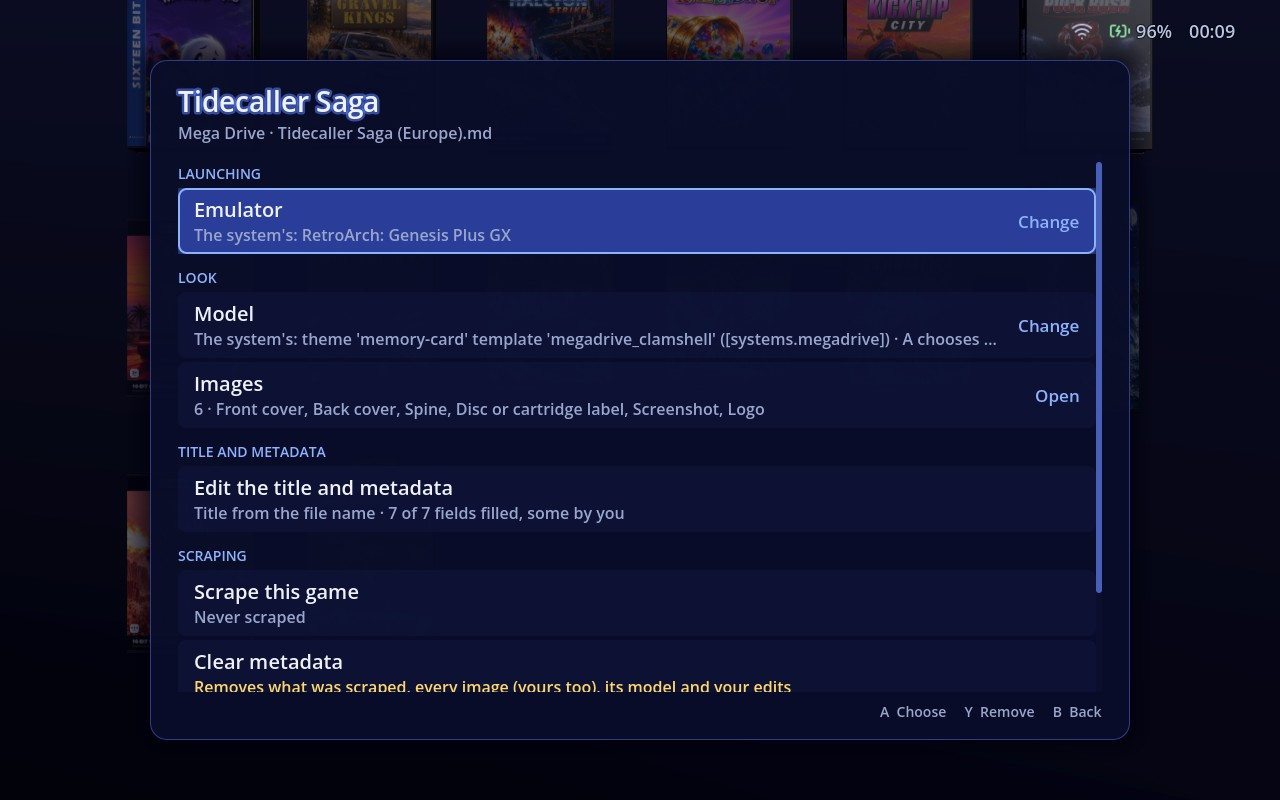
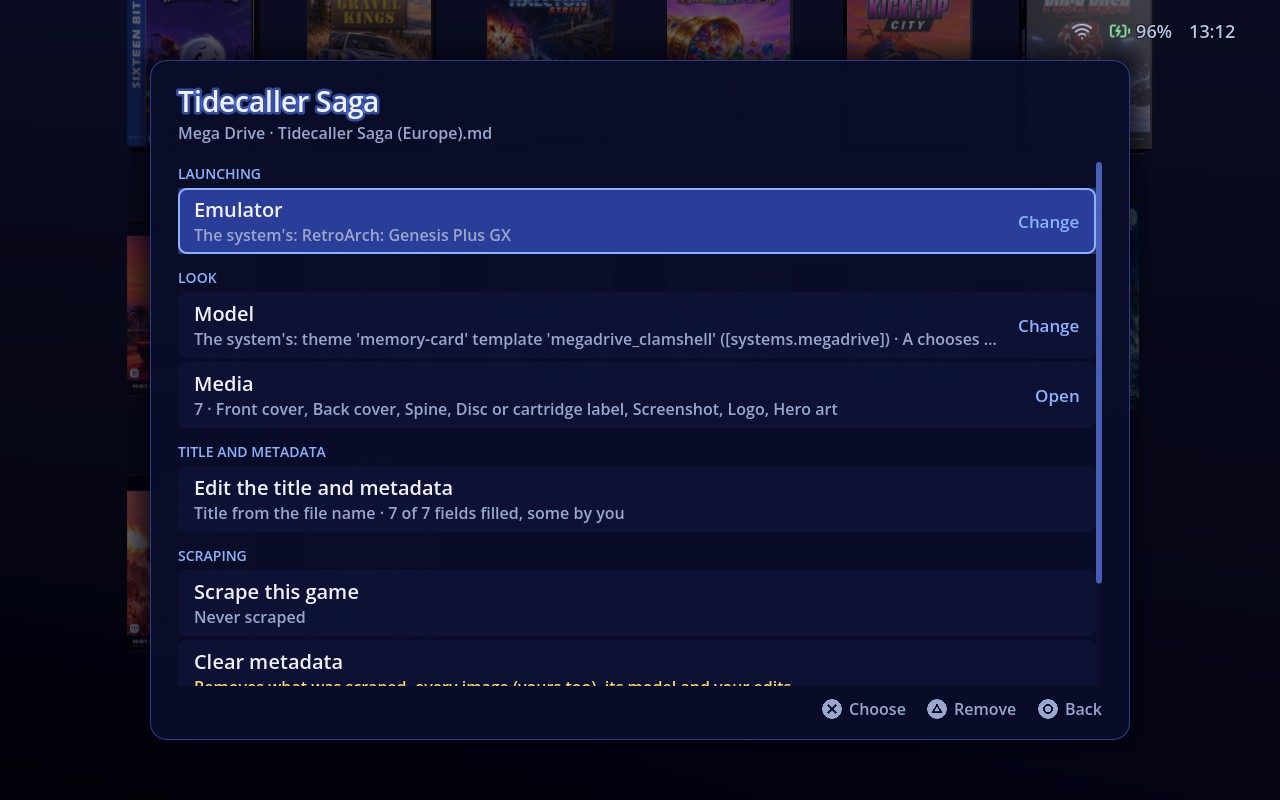
Updated README for v1.0

diff --git a/tools/made-up-games/make_games.py b/tools/made-up-games/make_games.py
@@ -1,6 +1,6 @@
 """Makes the made-up games' media for the README's captures (docs/readme/): for every release of every game in
-games.toml, its cover, back, spine, cartridge or disc label, logo and screenshot (an arcade game's logo and screenshot
-only),
+games.toml, its cover, back, spine, cartridge or disc label, logo, screenshot and hero (an arcade game's logo and
+screenshot only),
 composed from its Codex paintings (codex_art.py) with logos, packaging and HUDs drawn here, the same on every run.
 Writes a portable user folder to capture from, and review sheets:
 
@@ -34,9 +34,10 @@ from codex_art import look_of
 
 HERE = Path(__file__).resolve().parent
 REPO = HERE.parents[1]
-EXTENSIONS = {"cover": ".jpg", "back": ".jpg", "spine": ".jpg", "label": ".jpg", "logo": ".png", "screenshot": ".png"}
+EXTENSIONS = {"cover": ".jpg", "back": ".jpg", "spine": ".jpg", "label": ".jpg", "logo": ".png", "screenshot": ".png",
+              "hero": ".jpg"}
 FOLDERS = {"cover": "covers", "back": "backcovers", "spine": "spines", "label": "labels", "logo": "logos",
-           "screenshot": "screenshots"}
+           "screenshot": "screenshots", "hero": "heroes"}
 ROM_EXTENSIONS = {"megadrive": ".md", "snes": ".sfc", "n64": ".z64", "arcade": ".zip", "ps2": ".chd"}
 SYSTEMS = ["megadrive", "snes", "n64", "arcade", "ps2"]
 
@@ -79,6 +80,8 @@ def make(release, paintings, media):
         pieces["spine"] = P.to_image(B.spine(release, art, logo))
         # A PS2 disc's label is round: a PNG with its corners and its hole transparent.
         pieces["label"] = P.layer_image(B.disc(release, art, logo)) if system == "ps2" else P.to_image(B.label(release, art, logo))
+        # 16:9, as ScreenScraper's fan art and LaunchBox's backgrounds are: the Showcase layout fills the screen with it.
+        pieces["hero"] = P.to_image(B.crop(art, 1920, 1080, release.get("crop", {}).get("hero", (0.5, 0.5))))
     for kind, image in pieces.items():
         extension = ".png" if image.mode == "RGBA" else EXTENSIONS[kind]
         save(image, media / system / FOLDERS[kind] / (stem + extension))
@@ -169,7 +172,7 @@ def contact_sheet(paths, height, width=2400, captions=True):
 
 
 def sheets(media, out):
-    heights = {"cover": 300, "back": 300, "spine": 300, "label": 160, "logo": 110, "screenshot": 224}
+    heights = {"cover": 300, "back": 300, "spine": 300, "label": 160, "logo": 110, "screenshot": 224, "hero": 200}
     for system in SYSTEMS:
         for kind, folder in FOLDERS.items():
             paths = sorted((media / system / folder).glob("*")) if (media / system / folder).exists() else []

diff --git a/tools/made-up-games/readme_captures.py b/tools/made-up-games/readme_captures.py
@@ -97,6 +97,7 @@ class Capture:
     animation: bool = False
     start: int = 0
     lead: int = 0
+    buttons: str = "xbox"
 
     def output(self):
         return OUT / (self.name + (".webp" if self.animation else ".jpg"))
@@ -125,9 +126,15 @@ CAPTURES = [
             args=["--start-system=snes", "--start-index=7", "--layout=grid/carousel"]),
     Capture("layout-list", "console", ["wait", "wait"], after=30,
             args=["--start-system=megadrive", "--start-index=6", "--layout=grid/list"]),
+    Capture("layout-coverflow", "console", ["wait", "wait"], after=30,
+            args=["--start-system=ps2", "--start-index=8", "--layout=grid/coverflow"], buttons="playstation"),
+    Capture("layout-showcase", "console", ["wait", "wait", "wait"], after=30,
+            args=["--start-system=ps2", "--start-index=5", "--layout=grid/showcase"], buttons="playstation"),
     Capture("game-details", "console", ["wait"], after=30,
             args=["--start-system=megadrive", "--start-index=17", "--open=details"]),
-    Capture("game-options", "console", ["wait", "x"], after=30, args=["--start-system=megadrive", "--start-index=17"]),
+    Capture("game-options", "console", ["wait", "x"], after=30, args=["--start-system=megadrive", "--start-index=17"],
+            buttons="playstation"),
+    Capture("settings", "console", ["wait"], after=30, args=["--open=settings"]),
     Capture("system-details", "console", [*TO_MEGADRIVE, "y"], after=60, expect="Mega Drive"),
 ]
 
@@ -235,6 +242,7 @@ def record(capture, folder):
         [godot(), "--path", REPO / "godot", "--resolution", f"{STILL[0]}x{STILL[1]}", "--fixed-fps", "60",
          "--write-movie", folder / "f.png", "--",
          f"--user-dir={USER_DIR}", f"--theme={capture.theme}", "--fake-status=96+/wifi3", f"--boot-frames={BOOT}",
+         f"--button-icons={capture.buttons}",
          "--nav-script=" + ",".join(capture.nav), *capture.args,
          f"--capture={folder / 'end.png'}", f"--capture-frame={frames}"],
         capture_output=True, text=True, encoding="utf-8", errors="replace")

diff --git a/README.md b/README.md
@@ -2,12 +2,11 @@
 
 **A fully 3D game launcher for your emulators and PC games, inspired by the PlayStation 2's memory card browser.**
 
-Every system and every game is a floating 3D model. Depending on the theme, systems appear as their own consoles, as slabs with their logos or as flat logo cards, and games come in their real boxes, cases and cabinets, wrapped in their own cover art. Pick a system, pick a game, and it launches in the emulator you've set up. When you quit the game you're back where you left off.
+Every system and every game is a 3D model: consoles, logo cards, and games in their real boxes, cases and cabinets, wrapped in their own art. Pick a system, pick a game, and it launches in your emulator. Quit the game and you're back where you left off.
 
 ![Browsing the systems, entering the Mega Drive and moving through its games](docs/readme/navigation.webp)
 
-
-Odyssey Launcher is built with Godot 4 and C# for Windows and Linux. **Performance is the headline feature:** it starts fast, aims to stay locked to your display's refresh rate while you scroll through thousands of games, and keeps its memory use low.
+Odyssey Launcher runs on Windows and Linux. **Performance is the headline feature:** it starts fast, stays smooth while you scroll through thousands of games, and keeps its memory use low.
 
 ## Contents
 
@@ -24,73 +23,66 @@ Odyssey Launcher is built with Godot 4 and C# for Windows and Linux. **Performan
 
 ### A 3D library
 
-- **Systems, then games, then play.** A 3D grid of your systems; enter one for a grid of its games, flying in and out of depth over a gradient or wallpaper.
-- **Real boxes for real games.** Mega Drive clamshells, SNES and N64 boxes, jewel cases, PS2, PSP, DVD and Switch cases, and arcade cabinets, each wrapped in its scraped front, back, spine and label. Other systems get a box shaped by their cover art.
-- **Your choice of model.** Give any game or system another of the theme's models: a flat cover or screenshot, a blue PS2 case, or a 1990s TV playing the game's video.
-- **Animated items.** The focused item lifts and sways, and most of the Console theme's machines load and play a made-up game when focused. A theme can calm the motion or stop it.
-- **Pick it up and turn it round.** R3 brings the focused game up large; turn it with the right stick to read the back or the spine.
-- **Several layouts:** a grid, a grid with names, a carousel, one at a time, a list beside the focused game's model, a coverflow of spines, or a showcase of the focused game's art and details above a strip of boxes, per system if you like.
-- **Favourites, Recently played and All games** have their own cards at the start of the systems grid.
+- **Systems, then games, then play**, flying in and out of depth over a gradient or wallpaper.
+- **Real boxes for real games:** Mega Drive clamshells, SNES and N64 boxes, jewel cases, PS2, PSP, DVD and Switch cases, and arcade cabinets, each wrapped in its front, back, spine and label.
+- **Animated items:** the focused item lifts and sways, and many of the Console theme's machines play a made-up game when focused.
+- **Pick it up and turn it round:** bring a game up close and turn it to read the back or the spine.
+- **Seven layouts:** a grid, a grid with names, a carousel, one at a time, a list, a **coverflow** of spines, and a **showcase** of the focused game's art and details above a strip of boxes. Set one for everything, or per system.
+- **Favourites, Recently played and All games** at the start of the systems grid.
 
 ![Inspecting a game and turning it with the right stick](docs/readme/inspect.webp)
 
-### Your collection, as it is
+### Your collection
 
-- **Multi-disc games** show as one (`.m3u`, `.cue`, `.gdi`), as do PS3, PS4 and PS5 game folders.
-- **Clean titles** from No-Intro and Redump names, with the region, revision and disc kept as details, sorted naturally.
-- **Sorting:** systems by name, maker or year; games by title, last played, time played, date added or release date, per system.
+- **Multi-disc games** and PS3, PS4 and PS5 game folders show as one game.
+- **Clean titles** from No-Intro and Redump names, sorted naturally.
+- **Sorting:** systems by name, maker or year; games by title, release date, last played, time played or date added.
 - **Play history:** play count, play time and last played.
-- **Import from RetroBat/Batocera:** a `gamelist.xml` brings in titles, metadata, favourites and media without overwriting yours.
-- **Network drives work well:** batched, parallel scans, and an unplugged drive never loses your favourites or history.
+- **Import from ES-DE, RetroBat and Batocera** gamelists, without overwriting your own edits.
+- **Network drives** work well, and an unplugged drive never loses your favourites or history.
 
 ### Scraping
 
-- **Five providers:** ScreenScraper, LaunchBox's Games DB, IGDB, SteamGridDB and the Steam store, in your order, each filling only the gaps.
-- **ScreenScraper works out of the box** in releases; add your account for higher limits. LaunchBox needs no account and looks games up offline after a one-off download (about 110 MB). IGDB and SteamGridDB need free keys.
-- **Every kind of media:** covers, backs, spines, screenshots, logos, fan art, labels, videos and PDF manuals. You choose which.
-- **Accurate matching** by name, size and checksum. When a match is wrong, "scrape this game" searches every provider and lets you choose, SteamGridDB's alternative art included.
-- **Runs in the background** in a queue that survives restarts and respects each provider's limits.
-- **Your own art and edits win:** set any image, video, manual, title or field yourself, and no scrape overwrites it.
-- **Plain media folders** (`covers/`, `screenshots/`, `videos/`...) that you can move to any drive.
+- **Five providers:** ScreenScraper, LaunchBox's Games DB, IGDB, SteamGridDB and Steam, in the order you choose.
+- **Works out of the box** with ScreenScraper and LaunchBox; add your own accounts for more.
+- **Every kind of media:** covers, backs, spines, labels, screenshots, logos, fan art, videos and manuals.
+- **Choose the match yourself** when one is wrong, alternative art included.
+- **Your own art and edits always win.**
 
 ### Details and media
 
-- **Game details (Y):** description, release date, genre, developer, publisher, players, rating, region, play history and file.
-- **Images, videos and manuals** as cards: view an image full screen, play the video with sound, or read the manual page by page (Windows).
-- **System details:** the system's model, ready to turn, beside its history, emulators, folders and settings.
+- **Game details:** description, release date, genre, developer, players, rating and play history.
+- **Images, videos and manuals:** view images full screen, play videos with sound, read manuals page by page.
+- **System details:** the system's model, ready to turn, beside its history and settings.
 
 ### Launching
 
-- **Emulator profiles** for RetroArch cores, standalone emulators (PCSX2, Dolphin, PPSSPP, DuckStation and more), and games that are their own program, script or shortcut.
-- **Per-game overrides:** run one game with another emulator.
-- **Switch controllers** are set up in Eden before each launch, the pad that chose the game as player 1.
-- **Steam games** are followed until Steam says they've ended, so their play time counts too.
-- **Clean hand-off:** while a game runs the launcher stops drawing and frees its textures; when it ends, the launcher takes the foreground back.
+- **Emulator profiles** for RetroArch cores, standalone emulators, and games that are their own program or shortcut.
+- **Per-game emulators** when one game needs another.
+- **Steam games** count their play time too.
+- **Clean hand-off:** the launcher steps aside while you play and takes the foreground back when you quit.
 
-### Everything from the sofa
+### Made for the sofa
 
-- **Controller-driven settings** for folders, emulators, themes (and downloading more), layouts, graphics, scraping and updates, with an on-screen keyboard and file pickers.
-- **Game options (X):** emulator, model, media, metadata, scraping and deleting.
-- **System options (X):** folders, emulator, layout, models, scraping all its games and importing a `gamelist.xml`.
-- **Power menu (View):** restart, shut down, sleep or quit.
-- **Status indicators:** clock, battery and network, plus an optional FPS and video memory readout.
-- **Navigation sounds**, which you can turn off.
-- **Graphics options:** borderless, exclusive fullscreen or windowed; 3D resolution; Direct3D 12 or Vulkan; anisotropic filtering.
+- **Controller-driven everything:** settings, themes, scraping and updates, with an on-screen keyboard and file pickers.
+- **Button hints for your controller:** the controls along the bottom show Xbox, PlayStation, Switch, GameCube, Steam Deck or Steam Controller buttons, or your keyboard's keys, following whatever you pressed last. You can also fix one kind in the settings.
+- **UI size:** small for a desk, large for a handheld or a television across the room.
+- **Power menu:** restart, shut down, sleep or quit.
+- **Status indicators:** clock, battery and network.
 - The keyboard works everywhere, and the mouse in the menus.
 
 ### Built for speed
 
-- Aims to be interactive within a second of its own start-up, even with 10,000 games.
-- Aims to stay locked to the refresh rate while scrolling: the UI thread never touches the disk, network or database, and nothing allocates per frame.
-- Covers stream in on background threads within a per-frame upload budget.
-- Each kind of model is drawn in one batch.
+- Aims to be ready within a second, even with 10,000 games.
+- Aims to stay locked to your display's refresh rate while scrolling.
+- Covers stream in as you scroll, without stutter.
 - The baseline is a Steam Deck, handheld at 1280×800 or docked to 4K.
 
 ## Screenshots
 
 ### Themes
 
-The **Slab** theme (the default) shows each system as a dark slab with its logo. **Console** shows each system as its console, modelled in 3D: every built-in system has its own, from the Channel F to the PlayStation 5 and the PS Vita (with a PC of its time for DOS and each Windows, and a laptop for desktop apps), most of them loading a made-up game when you focus them; a system you add yourself gets a plain card. **Classic View** looks like a 2D launcher: flat logo cards and flat covers over a wallpaper, with nothing swaying. Switch themes from the settings, or for the session with <kbd>T</kbd> on the systems screen, without a restart. Get more from **Download themes** in the settings: themes checked before they're listed, then kept up to date from their own repositories.
+**Slab** (the default) shows each system as a dark slab with its logo. **Console** shows each system as its own console, modelled in 3D, from the Channel F to the PlayStation 5. **Classic View** looks like a 2D launcher: flat logo cards and covers over a wallpaper. Switch themes without a restart, and download more from the settings.
 
 ![Switching from the Console theme to Slab, then Classic View](docs/readme/themes.webp)
 
@@ -110,103 +102,91 @@ The **Slab** theme (the default) shows each system as a dark slab with its logo.
 
 ### Layouts
 
-| Carousel | List |
+| Showcase | Coverflow |
 |---|---|
+| ![PS2 games in the showcase layout: the focused game's logo, description, details and screenshot over its art, above a strip of boxes](docs/readme/layout-showcase.jpg) | ![PS2 games in the coverflow layout: the focused game facing out, the rest showing their spines](docs/readme/layout-coverflow.jpg) |
+| **Carousel** | **List** |
 | ![SNES games in the carousel layout](docs/readme/layout-carousel.jpg) | ![Mega Drive games in the list layout, the focused game's box beside the titles](docs/readme/layout-list.jpg) |
 
-### Details and options
+### Details, options and settings
 
 | Game details | System details |
 |---|---|
 | ![A game's details: its description, metadata and play history, and its images](docs/readme/game-details.jpg) | ![The Mega Drive's details, its model beside them](docs/readme/system-details.jpg) |
-| **Game options** | |
-| ![A game's options: emulator, model, images, metadata, scraping](docs/readme/game-options.jpg) | |
+| **Game options** | **Settings** |
+| ![A game's options: emulator, model, media, metadata, scraping](docs/readme/game-options.jpg) | ![The settings' first page: Library, Systems, Emulators, Scraping, Appearance, Interface, Graphics and About](docs/readme/settings.jpg) |
 
 ## Getting started
 
-1. **Download** the latest `OdysseyLauncher-<version>-windows-x86_64.zip` from [Releases](https://github.com/GeekRhapsody/OdysseyLauncher/releases), unzip it anywhere, and run `OdysseyLauncher.exe`. The .NET runtime is included, so there's nothing else to install. It needs 64-bit Windows 10 or 11 and a GPU with Direct3D 12 or Vulkan.
+1. **Download** the latest release from [Releases](https://github.com/GeekRhapsody/OdysseyLauncher/releases):
+   - **Windows:** `OdysseyLauncher-<version>-windows-x86_64.zip`. Unzip it anywhere and run `OdysseyLauncher.exe`. Needs 64-bit Windows 10 or 11 and a GPU with Direct3D 12 or Vulkan.
+   - **Linux:** `OdysseyLauncher-<version>-linux-x86_64.AppImage`. Make it executable and run it. Needs a 64-bit distribution with glibc 2.34 or later (Ubuntu 22.04, Fedora 35 or newer), ideally with Vulkan.
 
-   **On Linux,** download `OdysseyLauncher-<version>-linux-x86_64.AppImage` instead, make it executable (`chmod +x`, or Allow executing in its properties), and run it. It needs a 64-bit distribution with glibc 2.34 or later (Ubuntu 22.04, Linux Mint 21, Fedora 35, current Arch and its derivatives, or newer), and runs best with a Vulkan driver.
-2. **Point it at your games.** By default each system's games are expected in `<your user folder>\ROMs\<system id>` (`ROMs\megadrive`, `ROMs\snes`...), as in other frontends. In **Settings > Library** you can set another root folder, and in **Settings > Systems** give any system its own folders.
-3. **Point it at your emulators.** In **Settings > Emulators**, set the folder your emulators live in and RetroArch's folder. Each system's emulator can be changed on its page in **Settings > Systems**, or from its options (X on its card). **Settings > About** lists any emulator that's missing.
-4. **Scrape** from **Settings > Scraping**: "Scrape all missing metadata" fetches art and metadata for every game never scraped, not found before, or without a front cover. Add your ScreenScraper account (or IGDB and SteamGridDB keys) on the same page, under Providers, for faster, fuller results.
+   Nothing else to install.
+2. **Add your games.** Put each system's games in `ROMs\<system>` in your user folder (`ROMs\megadrive`, `ROMs\snes`...), as in other frontends, or choose other folders in **Settings > Library** and **Settings > Systems**.
+3. **Set up your emulators** in **Settings > Emulators**. **Settings > About** lists any that are missing.
+4. **Scrape** from **Settings > Scraping** with "Scrape all missing metadata".
 
-**Portable mode:** put an empty `portable.txt` beside `OdysseyLauncher.exe` (on Linux, beside the `.AppImage` file), and settings, databases, media and caches stay in a `userdata` folder next to it, instead of `%APPDATA%` and `%LOCALAPPDATA%` (on Linux, `~/.config`, `~/.local/share` and `~/.cache`).
+**Portable mode:** put an empty `portable.txt` beside the executable (or the AppImage) and everything is kept in a `userdata` folder next to it.
 
-**Updating:** **Settings > About > Check for updates** fetches the newest release from GitHub, installs it and restarts the launcher. Your settings, library and media are kept. On Linux it replaces the `.AppImage` file, keeping its name; tools that update AppImages, such as AppImageUpdate and Gear Lever, can update it too.
+**Updating:** **Settings > About > Check for updates** installs the newest release and restarts, keeping your settings, library and media.
 
 ## Controls
+
+The hints along the bottom of each screen show the buttons for the controller you're using.
 
 | Action | Controller | Keyboard |
 |---|---|---|
 | Move | D-pad, left stick | Arrow keys |
 | Open, play | A | Enter, Space |
 | Back | B | Escape, Backspace |
-| Options for the focused system or game | X | O, or the Menu key |
+| Options for the focused system or game | X | O |
 | Details | Y | I |
-| Favourite (a game) | L3 | F |
+| Favourite | L3 | F |
 | Inspect (bring the game up close) | R3 | Z |
 | Turn the focused item | Right stick | |
 | Page up, page down | LB, RB | Page Up, Page Down |
-| Previous, next letter (a system's games) | LT, RT | <kbd>[</kbd>, <kbd>]</kbd> |
-| First, last | | Home, End |
-| Settings | Menu (or B on the systems screen) | F1 (or Escape on the systems screen) |
-| The system's settings (in its games) | Menu | F1 |
+| Previous, next letter | LT, RT | <kbd>[</kbd>, <kbd>]</kbd> |
+| Settings (in a system's games, that system's settings) | Menu | F1 |
 | Power menu | View | P |
-| Next theme, for the session (systems screen) | | T |
-| Rescan the library: ROM folders, and media for new games (systems screen) | | F5 |
-| Rescan the library and media (systems screen) | | Shift+F5 |
+| Next theme, for the session | | T |
+| Rescan the library | | F5 |
 
 ## Configuration
 
-Everything in the settings screen is saved to plain TOML files in `%APPDATA%\OdysseyLauncher` (or `userdata\` in portable mode). You can edit them by hand too. They hold only what differs from the built-in defaults, and the app keeps your comments and formatting when it writes to them:
-
-- `settings.toml`: folders (ROMs, media and emulators), display and graphics, layouts and sorting, the status indicators and sounds, scanning and scraping.
-- `systems.toml`: each system's ROM folders, file types, emulator, layout and sorting.
-- `emulators.toml`: emulator profiles (program, core and arguments, with placeholders such as `{rom}` and `{core}`).
-- `secrets.toml`: scraping credentials.
-
-Your own themes, and the ones you download, go in a `themes` folder beside them.
+Everything in the settings is saved to plain TOML files you can also edit by hand: `settings.toml`, `systems.toml`, `emulators.toml` and `secrets.toml` (scraping accounts). They're in `%APPDATA%\OdysseyLauncher` on Windows, `~/.config/OdysseyLauncher` on Linux, or `userdata` in portable mode. Your themes go in a `themes` folder beside them.
 
 ## Themes and models
 
-Themes are folders of glTF 2.0 (`.glb`) models and images, plus a `theme.toml`. The manifest sets the background (a gradient, or a wallpaper for the theme and for each system), the lighting, the menus' colours and font, how much items sway, each system's colour, model and logo, and each system's game template. A theme only states what it changes; everything else comes from the built-in base theme.
+A theme is a folder of 3D models (glTF `.glb`) and images, with a `theme.toml` that sets the background, lighting, menu colours, motion, and each system's model and logo. A theme only states what it changes; everything else comes from the built-in base theme.
 
-You can also replace any single model from the system and game options, without writing a theme:
+You can also give a single system or game its own model from its options, without writing a theme.
 
-- **A system's card,** or the template for all its games.
-- **A single game's model,** as a `.glb`, or an OBJ model in a zip. PS2 save icons (an OBJ with its `.anim`) keep their animation.
-
-Models are checked against the model spec and its budgets, oversized textures are scaled down, and any problem is written to a log you can read.
-
-The guide for theme authors is [docs/THEMING.md](docs/THEMING.md). It covers the manifest, media slots and fallbacks, the model spec and budgets, animation clips, making models in Blender, testing, and getting a theme onto the download list. A sample theme to copy is in [samples/themes/retro-tv](samples/themes/retro-tv).
+To make a theme, see the guide for theme authors, [docs/THEMING.md](docs/THEMING.md), and the sample theme in [samples/themes/retro-tv](samples/themes/retro-tv).
 
 ## Credits
 
-### Slab theme logos: canvas-es-de
+### Slab theme logos
 
-The system logos in the **Slab** theme (`godot/themes/slab/logos/`) come from [**canvas-es-de**](https://github.com/Siddy212/canvas-es-de) by [Siddy212](https://github.com/Siddy212), a theme for ES-DE. canvas-es-de credits its original artwork and layouts to fagnerpc.
+The **Slab** theme's system logos come from [**canvas-es-de**](https://github.com/Siddy212/canvas-es-de) by [Siddy212](https://github.com/Siddy212), which credits its original artwork and layouts to fagnerpc. They're used under [CC BY-NC-SA 2.0](https://creativecommons.org/licenses/by-nc-sa/2.0/). **Changes:** cropped, scaled, converted to WebP and some renamed; the PlayStation 5's image was made for Odyssey Launcher in the same layout. The adapted logos are shared under the same licence.
 
-They're used under the [Creative Commons Attribution-NonCommercial-ShareAlike 2.0](https://creativecommons.org/licenses/by-nc-sa/2.0/) licence (CC BY-NC-SA 2.0). **Changes:** each image was cropped to its content, scaled to at most 512 pixels on its longer side and converted to WebP, and a few were renamed to match Odyssey Launcher's system ids. The PlayStation 5's image (`ps5.webp`) isn't from canvas-es-de: it was made for Odyssey Launcher in the same layout. The adapted logos are shared under the same licence.
+### Classic View theme logos
 
-### Classic View theme logos: es-theme-carbon
-
-The system logos in the **Classic View** theme (`godot/themes/classic-view/logos/`) come from [**es-theme-carbon**](https://github.com/fabricecaruso/es-theme-carbon), Batocera's default theme, by Rookervik (based on simple by Nils Bonenberger). Its readme names the licence as Creative Commons Attribution-NonCommercial-ShareAlike (CC BY-NC-SA); its heading says version 2.0 and the licence text below it 4.0. The logos and trademarks themselves are their owners'.
-
-**Changes:** each SVG was rendered to an image, each image cropped to its content, scaled to at most 512 pixels on its longer side and converted to WebP, and a few were renamed to match Odyssey Launcher's system ids. The adapted logos are shared under the same licence.
+The **Classic View** theme's system logos come from [**es-theme-carbon**](https://github.com/fabricecaruso/es-theme-carbon), Batocera's default theme, by Rookervik (based on simple by Nils Bonenberger), under Creative Commons Attribution-NonCommercial-ShareAlike (its readme names version 2.0 in its heading and 4.0 in its licence text). **Changes:** rendered from SVG, cropped, scaled, converted to WebP and some renamed. The adapted logos are shared under the same licence.
 
 ### Also
 
 - [Godot Engine](https://godotengine.org), which renders everything.
-- [ES-DE](https://es-de.org), whose systems catalogue, folder names, emulator commands, release years and descriptions are the basis of the built-in systems.
-- [Lucide](https://lucide.dev) for the status indicator icons (ISC licence).
-- [FFmpeg](https://ffmpeg.org) (LGPL 2.1 or later), which decodes videos in the Linux AppImage. It's FFmpeg 9.0.2, unmodified, built from its source tarball as shared libraries by `tools/linux/setup.sh`; the AppImage carries its licence and says where its exact source is and how it was built (`usr/share/licenses/ffmpeg/`).
-- [PDFium](https://pdfium.googlesource.com/pdfium/) (BSD 3-clause and Apache 2.0, with the licences of the libraries built into it), which renders manuals in the Linux AppImage, as built by [pdfium-binaries](https://github.com/bblanchon/pdfium-binaries) (MIT licence), unmodified; the AppImage carries their licences (`usr/share/licenses/pdfium/`).
-- [LibGit2Sharp](https://github.com/libgit2/libgit2sharp) (MIT licence) and [libgit2](https://libgit2.org) (GPLv2 with a linking exception), with which the theme downloader clones and updates themes.
+- [ES-DE](https://es-de.org), whose systems catalogue is the basis of the built-in systems.
+- [Lucide](https://lucide.dev) for the status icons (ISC) and [Kenney](https://kenney.nl)'s Input Prompts for the button icons (CC0).
+- [FFmpeg](https://ffmpeg.org) (LGPL 2.1 or later) and [PDFium](https://pdfium.googlesource.com/pdfium/) (BSD 3-clause and Apache 2.0, built by [pdfium-binaries](https://github.com/bblanchon/pdfium-binaries)) for videos and manuals in the Linux AppImage, unmodified; the AppImage carries their licences and source details.
+- [LibGit2Sharp](https://github.com/libgit2/libgit2sharp) (MIT) and [libgit2](https://libgit2.org) (GPLv2 with a linking exception) for downloading themes.
 - [ScreenScraper](https://www.screenscraper.fr), [LaunchBox's Games DB](https://gamesdb.launchbox-app.com), [IGDB](https://www.igdb.com), [SteamGridDB](https://www.steamgriddb.com) and Steam for game metadata and art.
+
+The games in these screenshots are made up: their names, art and boxes were created for this README.
 
 ## Licence
 
-Odyssey Launcher is released under the [MIT licence](LICENSE). That covers its code, tools and documentation, and the models, images, videos and sounds made for it.
+Odyssey Launcher is released under the [MIT licence](LICENSE), covering its code, tools, documentation, and the models, images, videos and sounds made for it.
 
-What comes from others keeps its own licence: the Slab and Classic View themes' system logos (CC BY-NC-SA, as described under [Credits](#credits)), the Lucide icons (ISC), and the libraries the release ships (LibGit2Sharp and libgit2, the .NET runtime, and Godot, each under its own licence, and in the Linux AppImage FFmpeg, under the LGPL 2.1 or later, and PDFium, under BSD 3-clause and Apache 2.0). Console makers' names, logos and products are their owners' trademarks.
+What comes from others keeps its own licence: the Slab and Classic View logos (CC BY-NC-SA, see [Credits](#credits)), the Lucide icons (ISC), and the libraries the release ships (Godot, the .NET runtime, LibGit2Sharp and libgit2, and in the Linux AppImage FFmpeg and PDFium). Console makers' names, logos and products are their owners' trademarks.

diff --git a/CLAUDE.md b/CLAUDE.md
@@ -50,7 +50,7 @@ A fully 3D game launcher frontend (systems grid → games grid → emulator), st
 | `tools/wallpaper/` | `make_wallpaper.py` draws the wallpapers into `wallpapers/` (`--out=<folder>` elsewhere): 61 icons drawn from primitives (no logos), packed into one 1920×1080 layout and rendered at each size (numpy, scipy, Pillow, and ImageMagick's librsvg; seeded, `--seed=<n>`, 7 for the current ones: the same on every run). Its SVG and intermediate renders go to `artifacts/wallpaper/`. Not in the solution. |
 | `tests/themes/` | Themes for tests and captures (`slot-showcase`: a game template with three slots, and wallpapers: an opaque one for the theme, one with transparency for PS2's games). Copy one into a user folder's `themes/` to use it. |
 | `tools/test-wallpapers/` | `make_test_wallpapers.py` draws slot-showcase's wallpapers into `tests/themes/slot-showcase/wallpapers/` (Pillow; seeded: the same on every run). Not in the solution. |
-| `tools/made-up-games/` | Made-up games for the README's captures, so no real game's art is shown (docs/ARCHITECTURE.md decisions log, 2026-10-25; its `README.md` is the process, for adding games, systems or kinds of art): `games.toml` (68 game concepts, each with its details, box copy, logo style, prompts and `versions`, its releases on the Mega Drive, SNES, N64, arcade or PS2: 88 in all, the arcade's from early-1980s 8-bit boards to a 2010s HD 3D fighter, the PS2's with a disc label), `codex_art.py` (the Codex CLI's built-in image tool paints each concept's key art and its screens, four to a grid that it cuts apart (`--resplit` cuts the kept grids again), into `artifacts/made-up-games/paintings/`: only those missing, Mega Drive games first, stopping if Codex refuses; not reproducible, so keep them) and `make_games.py` (from them, every release's cover, back, spine, label, logo and native-resolution screenshot with its HUD, an arcade game's logo and screenshot only, the same on every run: `boxes.py` each system's PAL box design with made-up marks, `logos.py`, `screens.py`, `paint.py`) into a portable user folder (`artifacts/made-up-games/library/`: empty ROMs, a `gamelist.xml` per system, media in the app's layout; its `README.txt` says how to scan and import it) and review sheets (`sheets/<system>-<kind>.jpg`); and `readme_captures.py`, which makes `docs/readme/` from that library: a copy of it with empty ROMs for 23 more systems and some favourites and play history (`artifacts/made-up-games/readme/library/`, mapped to `R:` with subst while it runs), every still and animation recorded in Godot's movie mode (`--write-movie`, driven by `--nav-script`) and cut from the frame the log gives for the nav script's first step, and a contact sheet; `--check` records each animation twice and compares them. Needs Pillow, numpy, scipy, and Windows' and Office's fonts. Not in the solution. |
+| `tools/made-up-games/` | Made-up games for the README's captures, so no real game's art is shown (docs/ARCHITECTURE.md decisions log, 2026-10-25; its `README.md` is the process, for adding games, systems or kinds of art): `games.toml` (68 game concepts, each with its details, box copy, logo style, prompts and `versions`, its releases on the Mega Drive, SNES, N64, arcade or PS2: 88 in all, the arcade's from early-1980s 8-bit boards to a 2010s HD 3D fighter, the PS2's with a disc label), `codex_art.py` (the Codex CLI's built-in image tool paints each concept's key art and its screens, four to a grid that it cuts apart (`--resplit` cuts the kept grids again), into `artifacts/made-up-games/paintings/`: only those missing, Mega Drive games first, stopping if Codex refuses; not reproducible, so keep them) and `make_games.py` (from them, every release's cover, back, spine, label, logo, hero and native-resolution screenshot with its HUD, an arcade game's logo and screenshot only, the same on every run: `boxes.py` each system's PAL box design with made-up marks, `logos.py`, `screens.py`, `paint.py`) into a portable user folder (`artifacts/made-up-games/library/`: empty ROMs, a `gamelist.xml` per system, media in the app's layout; its `README.txt` says how to scan and import it) and review sheets (`sheets/<system>-<kind>.jpg`); and `readme_captures.py`, which makes `docs/readme/` from that library: a copy of it with empty ROMs for 23 more systems and some favourites and play history (`artifacts/made-up-games/readme/library/`, mapped to `R:` with subst while it runs), every still and animation recorded in Godot's movie mode (`--write-movie`, driven by `--nav-script`) and cut from the frame the log gives for the nav script's first step, and a contact sheet; `--check` records each animation twice and compares them. Needs Pillow, numpy, scipy, and Windows' and Office's fonts. Not in the solution. |
 | `tests/themes-list/` | A made-up theme list for the downloader (`themes.json` and screenshots of the app's own themes), for `--themes-list` captures; its repositories don't exist. `ThemeIndexReaderTests` checks it reads cleanly. |
 | `samples/themes/retro-tv/` | The sample theme for theme authors (`docs/THEMING.md`): a CRT television game template (screenshot screen, logo plate, focused and launch clips) and a console system model (idle clip). A user theme: copy it into a user folder's `themes/`. |
 | `tools/console-models/` | Blender scripts for the console theme's cards (`godot/themes/console/models/systems/`) and memory-card's game case templates (`models/templates/`), with their print, video and layout scripts and the kits they share. What each one builds, and how: its `README.md`, which you update with the card; each card's build record: its `HISTORY.md`. |

diff --git a/tools/made-up-games/README.md b/tools/made-up-games/README.md
@@ -28,8 +28,9 @@ python -c "import tomllib; [print(g['id'], g['genre'], [v['system'] for v in g['
 
 Every release also has a logo (a transparent PNG). The box sizes are twice ScreenScraper's scans, so the art fits the
 templates' faces without cropping. Covers, backs, spines and labels are JPEGs, except a PS2 disc's label, a round PNG
-with its corners and hole transparent; logos and screenshots PNGs. Not made:
-heroes (a 1920 × 620 cut of the key art; dropped as not needed), videos and manuals.
+with its corners and hole transparent; logos and screenshots PNGs. Every release with key art also has a hero, a
+1920 × 1080 JPEG cut from it (16:9, as ScreenScraper's fan art and LaunchBox's backgrounds are), which the Showcase
+layout fills the screen with. Not made: videos and manuals.
 
 ## The process
 
@@ -54,7 +55,8 @@ heroes (a 1920 × 620 cut of the key art; dropped as not needed), videos and man
    so the Favourites and Recently played cards show without launching anything), maps that folder to `R:` while it
    runs (the system details show `R:\ROMs\megadrive`, not a path with your user name), and records each capture in
    Godot's movie mode (`--write-movie` at `--fixed-fps 60`, driven by `--nav-script`), with `--boot-frames=90` so
-   that boot lasts the same number of frames on every run. Each image is cut from the frame the log gives for the nav
+   that boot lasts the same number of frames on every run, and `--button-icons` so that the hints show Xbox or
+PlayStation buttons (`buttons` in `CAPTURES`), not the keyboard's keys the nav script's presses would. Each image is cut from the frame the log gives for the nav
    script's first step: a still is one frame (a 1280 × 800 JPEG), an animation every fourth frame (a 720 × 450 WebP
    at 15 fps). The animations hide the clock, which shows the time of the run. It writes `docs/readme/` and a contact sheet
    (`artifacts/made-up-games/readme/contact-sheet.jpg`, and `contact-sheet.html`, which plays the animations).
@@ -97,9 +99,9 @@ paint, look, make, scan, import, capture.
    an arcade game gets a logo and a screenshot only).
 7. Add games, then the CLAUDE.md row and this file.
 
-**A kind of art** (heroes again, say): `make()` makes it, `FOLDERS` and `EXTENSIONS` name its folder (the app's names:
-`MediaKinds.FolderOf` in `src/Launcher.Core/Media/MediaKinds.cs`) and its format. A hero was `boxes.crop(art, 1920, 620,
-focus)`.
+**A kind of art**: `make()` makes it, `FOLDERS` and `EXTENSIONS` name its folder (the app's names:
+`MediaKinds.FolderOf` in `src/Launcher.Core/Media/MediaKinds.cs`) and its format, as for the hero
+(`boxes.crop(art, 1920, 1080, focus)`).
 
 ## games.toml
 
@@ -119,7 +121,7 @@ A concept's keys:
 A release's keys: `system` (`megadrive`, `snes`, `n64`, `arcade`, `ps2`), `released` (YYYY-MM-DD), `hud` and `hud_items`, and
 what it changes: `title`, `logo`, `players`, `file` (an arcade game's ROM: a MAME-style name, `redlnriv.zip`), `screen`
 (its look), `screen_fit = "pad"` (a screen painting widened by mirroring its edges, not cut: Kaleidrop's square one),
-`crop` (a focus for cutting the key art or the screen: `{ cover = [x, y], label = [...], screen = [...] }`, fractions
+`crop` (a focus for cutting the key art or the screen: `{ cover = [x, y], label = [...], screen = [...], hero = [...] }`, fractions
 of the spare width and height), `dress` (the Mega Drive's `classic` or `sidebar`) and `logo_place` (`top` or `bottom`).
 
 **HUDs** (drawn at native resolution in a bitmap font; painted text comes out garbled): `text` draws `hud_items`, each
